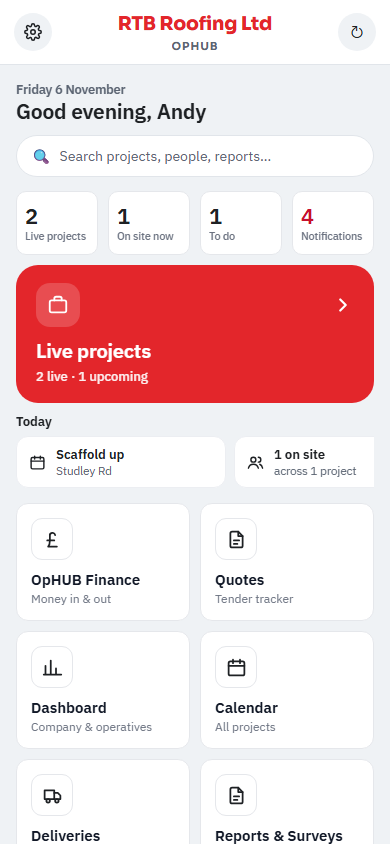
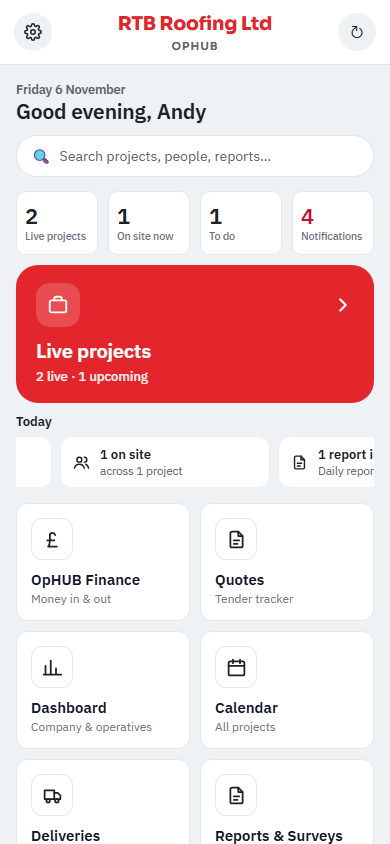
Phone home: the Today bar drifts sideways on its own, round and round, and stops for a few seconds when touched or dragged (Andy, 6 Nov). It only moves when there's more than fits. homeopt1-shots checks it moves and stops.
Claude-Session: https://claude.ai/code/session_012KhfNvBEbifMJmPdX7yZfp

diff --git a/app-native/src/components/PmHome.tsx b/app-native/src/components/PmHome.tsx
@@ -2,6 +2,7 @@
 // projects, on site now, to do, notifications), the sites map with a Today panel beside it, then plain tiles
 // (2 across on a phone, 4 on a laptop), "Pick up where you left off", and name / role / Sign out.
 import { router } from 'expo-router';
+import { useEffect, useRef, useState, type ComponentRef } from 'react';
 import { Pressable, ScrollView, Text, View } from 'react-native';
 
 import { HomePrompts } from '@/components/HomePrompts';
@@ -70,23 +71,7 @@ export function PmHome() {
     </Card>
   );
 
-  // Phone: Today as a sideways scrolling bar, not a card (Andy, 6 Nov 2026).
-  const todayBar = (
-    <View style={{ marginBottom: space.m }}>
-      <Text style={{ fontWeight: '600', color: base.ink, fontSize: 13, marginBottom: 6 }}>Today</Text>
-      <ScrollView horizontal showsHorizontalScrollIndicator={false} contentContainerStyle={{ gap: 8, paddingRight: 4 }}>
-        {todayRows.map((r, k) => (
-          <Pressable key={k} onPress={go(r.go)} accessibilityRole="button" style={({ pressed }) => [{ flexDirection: 'row', alignItems: 'center', gap: 10, width: 210, backgroundColor: '#fff', borderWidth: 1, borderColor: '#ECEEF2', borderRadius: 12, paddingVertical: 9, paddingHorizontal: 12 }, pressed && { opacity: 0.85 }]}>
-            <OphIcon name={r.ic} size={17} color={base.ink} />
-            <View style={{ flex: 1, minWidth: 0 }}>
-              <Text numberOfLines={1} style={{ fontWeight: '600', color: base.ink, fontSize: 13 }}>{r.t}</Text>
-              {!!r.sub && <Text numberOfLines={1} style={{ fontSize: 11.5, color: base.slate }}>{r.sub}</Text>}
-            </View>
-          </Pressable>
-        ))}
-      </ScrollView>
-    </View>
-  );
+  const todayBar = <TodayBar rows={todayRows} go={go} />;
 
   return (
     <Screen>
@@ -170,5 +155,57 @@ export function PmHome() {
         <Text style={{ color: base.warn, textDecorationLine: 'underline', fontSize: 11, fontStyle: 'italic' }}>Sign out</Text>
       </Pressable>
     </Screen>
+  );
+}
+
+type TodayRow = { ic: string; t: string; sub: string; go: string };
+
+/** Phone: Today as a bar that drifts sideways on its own, round and round (Andy, 6 Nov 2026). Touch or drag it
+ * and it stops for a few seconds; it only moves when there is more than fits on the screen. */
+function TodayBar({ rows, go }: { rows: TodayRow[]; go: (p: string) => () => void }) {
+  const ref = useRef<ComponentRef<typeof ScrollView>>(null);
+  const x = useRef(0), hold = useRef(0);
+  const [viewW, setViewW] = useState(0), [oneW, setOneW] = useState(0);
+  const loop = viewW > 0 && oneW > viewW + 4;
+  useEffect(() => {
+    if (!loop) return;
+    const id = setInterval(() => {
+      if (Date.now() < hold.current) return;
+      x.current += 0.6;
+      if (x.current >= oneW) x.current -= oneW;
+      ref.current?.scrollTo({ x: x.current, animated: false });
+    }, 25);
+    return () => clearInterval(id);
+  }, [loop, oneW]);
+  const pause = () => { hold.current = Date.now() + 4000; };
+  const set = (p: string) => (
+    <View key={p} style={{ flexDirection: 'row', gap: 8, paddingRight: 8 }} onLayout={p === 'a' ? (e) => setOneW(e.nativeEvent.layout.width) : undefined}>
+      {rows.map((r, k) => (
+        <Pressable key={p + k} onPress={go(r.go)} onPressIn={pause} accessibilityRole="button" style={({ pressed }) => [{ flexDirection: 'row', alignItems: 'center', gap: 10, width: 210, backgroundColor: '#fff', borderWidth: 1, borderColor: '#ECEEF2', borderRadius: 12, paddingVertical: 9, paddingHorizontal: 12 }, pressed && { opacity: 0.85 }]}>
+          <OphIcon name={r.ic} size={17} color={base.ink} />
+          <View style={{ flex: 1, minWidth: 0 }}>
+            <Text numberOfLines={1} style={{ fontWeight: '600', color: base.ink, fontSize: 13 }}>{r.t}</Text>
+            {!!r.sub && <Text numberOfLines={1} style={{ fontSize: 11.5, color: base.slate }}>{r.sub}</Text>}
+          </View>
+        </Pressable>
+      ))}
+    </View>
+  );
+  return (
+    <View style={{ marginBottom: space.m }}>
+      <Text style={{ fontWeight: '600', color: base.ink, fontSize: 13, marginBottom: 6 }}>Today</Text>
+      <ScrollView ref={ref} horizontal testID="today-bar" showsHorizontalScrollIndicator={false} scrollEventThrottle={16}
+        onLayout={(e) => setViewW(e.nativeEvent.layout.width)} onTouchStart={pause} onScrollBeginDrag={pause}
+        onScroll={(e) => {
+          if (Date.now() >= hold.current) return;
+          // Dragged by hand: carry on from where it was left (and keep inside the first copy so the loop is seamless).
+          let nx = e.nativeEvent.contentOffset.x;
+          if (loop && nx >= oneW) { nx -= oneW; ref.current?.scrollTo({ x: nx, animated: false }); }
+          x.current = nx; pause();
+        }}>
+        {set('a')}
+        {loop && set('b')}
+      </ScrollView>
+    </View>
   );
 }

diff --git a/tools/test-harness/homeopt1-shots.js b/tools/test-harness/homeopt1-shots.js
@@ -17,6 +17,14 @@ const check = (ok, what) => { console.log((ok ? 'PASS ' : 'FAIL ') + what); if (
       check(await page.getByText('Today', {exact: true}).count() >= 1, `${n}: the Today panel`);
       check(W < 500 ? await page.getByText('Live projects', {exact: true}).count() >= 2 : await page.getByText('Live projects', {exact: true}).count() === 0, `${n}: the Live projects card on a phone only`);
       check(W < 500 || await page.getByRole('button', {name: 'Projects'}).count() >= 1, `${n}: a Projects tile on a laptop`);
+      if (W < 500) {
+        // The Today bar drifts sideways on its own, and stops when touched.
+        const bar = page.locator('[data-testid="today-bar"]'); const left = () => bar.evaluate((e) => e.scrollLeft);
+        const x1 = await left(); await page.waitForTimeout(1500); const x2 = await left();
+        check(x2 > x1 + 10, `${n}: the Today bar scrolls on its own (${Math.round(x1)} → ${Math.round(x2)})`);
+        await bar.evaluate((e) => { const t = new Touch({identifier: 1, target: e, clientX: 60, clientY: e.getBoundingClientRect().y + 20}); const ev = (k) => new TouchEvent(k, {touches: k === 'touchend' ? [] : [t], targetTouches: k === 'touchend' ? [] : [t], changedTouches: [t], bubbles: true}); e.dispatchEvent(ev('touchstart')); e.dispatchEvent(ev('touchend')); }); const x3 = await left(); await page.waitForTimeout(1500); const x4 = await left();
+        check(Math.abs(x4 - x3) < 2, `${n}: and stops when touched (${Math.round(x3)} → ${Math.round(x4)})`);
+      }
     }
     await page.screenshot({path: `shots/job/opt1-${n}.png`});
     await ctx.close();
